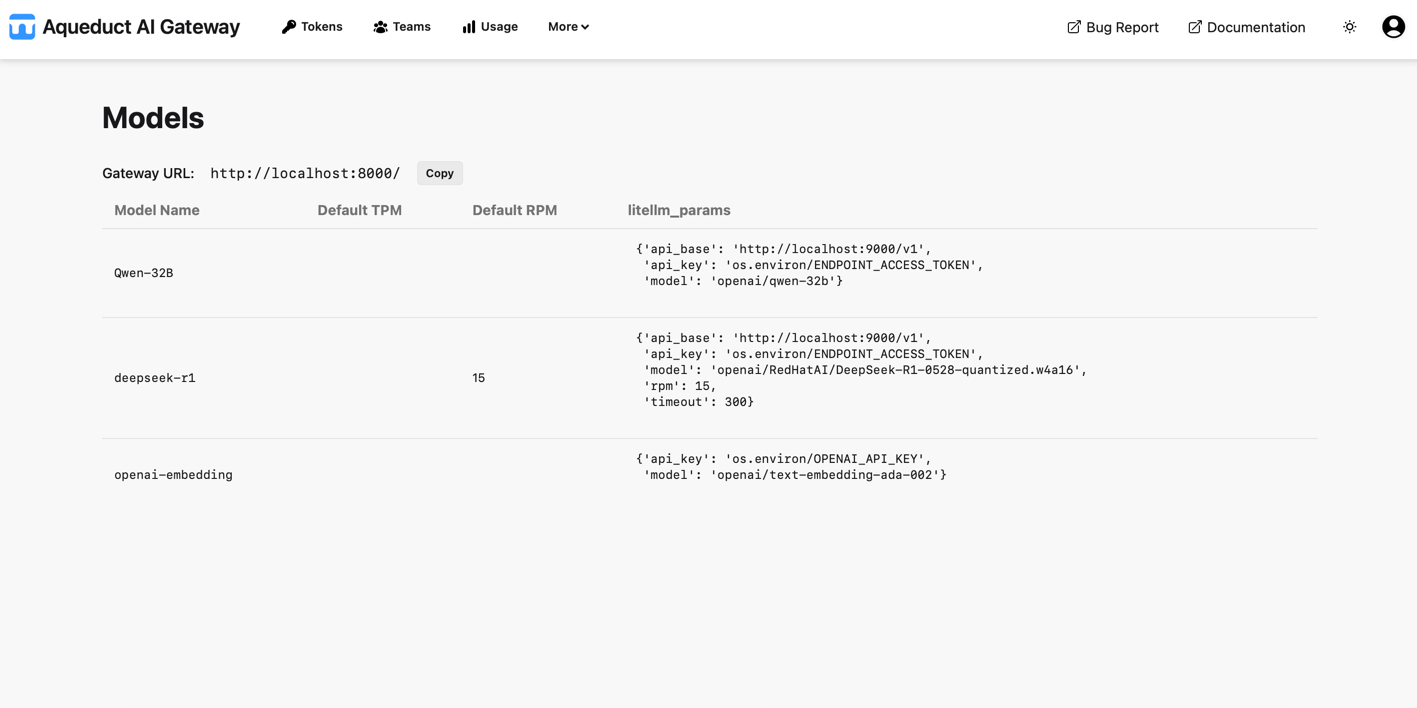
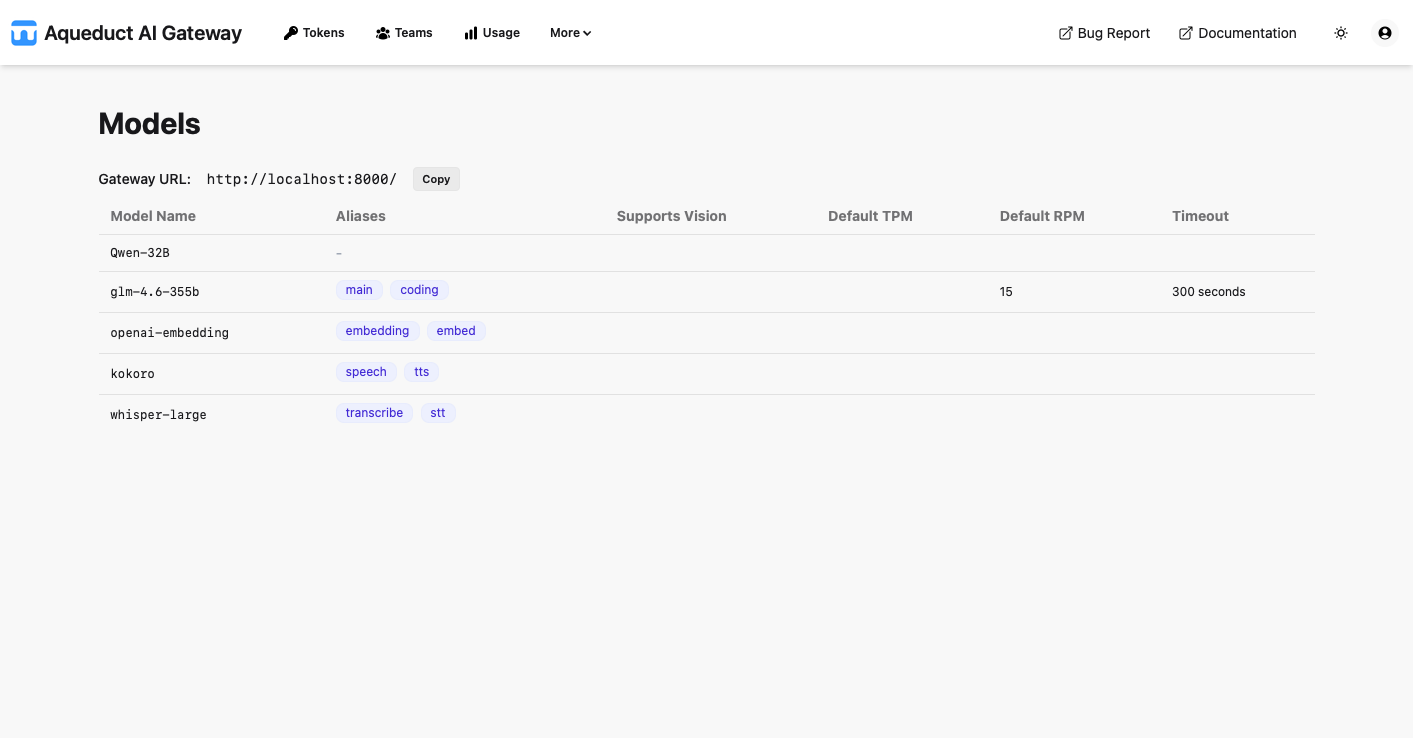
Remove litellm_params column from models table Update models api docs

diff --git a/aqueduct/management/templates/management/model_list.html b/aqueduct/management/templates/management/model_list.html
@@ -33,7 +33,6 @@
                         <th>Default TPM</th>
                         <th>Default RPM</th>
                         <th>Timeout</th>
-                        <th>litellm_params</th>
                     </tr>
                     </thead>
                     <tbody>
@@ -53,11 +52,6 @@
                             <td>{{ model.litellm_params.tpm }}</td>
                             <td>{{ model.litellm_params.rpm }}</td>
                             <td>{% if model.litellm_params.timeout %}{{ model.litellm_params.timeout }} second{{ model.litellm_params.timeout | pluralize }}{% endif %}</td>
-                            <td>
-                                <pre class="bg-base-200 rounded px-2 py-1 text-xs font-mono overflow-x-auto whitespace-pre-wrap">
-{{ model.litellm_params | pprint }}
-                                </pre>
-                            </td>
                         </tr>
                     {% endfor %}
                     </tbody>

diff --git a/docs/user-guide/models.md b/docs/user-guide/models.md
@@ -6,14 +6,31 @@ nav_order: 4
 
 # Models
 
-On the Models page, you can view the available models.
+On the Models page, you can view the available models in a table.
 
 ![Models Page](../assets/user_guide/models_page.png)
 
+## Model Name
+
 The model name in the table specifies the name for the model to use when making requests.
 The TPM and RPM columns specify the tokens per minute and requests per minute for this model.
-The litellm_params show additional information like the model timeout in seconds.
 
-## Model Aliases
+## Aliases
 
-Model aliases are alternative names for models. When making API requests, you can use either the model name or any of its aliases in the `model` parameter. Aliases are configured in your router configuration file. 
+Model aliases are alternative names for models. When making API requests, you can use either the model name or any of its aliases in the `model` parameter. Note that the underlying model of an alias can change. If the model changes, you can still use the alias without any change.
+
+## Supports Vision
+
+Says "Yes" if the model supports vision, meaning it can use images as input.
+
+## Default TPM
+
+Maximum tokens per minute for this model irrespective of your org, team or user quota limit.
+
+## Default RPM
+
+Maximum requests per minute for this model irrespective of your org, team or user quota limit.
+
+## Timeout
+
+Timeout in seconds for this model.
